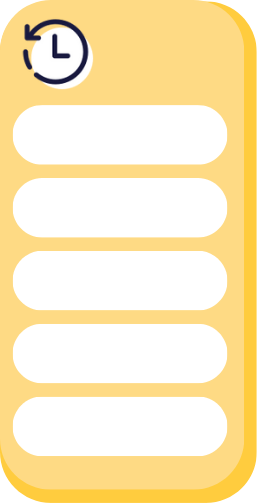
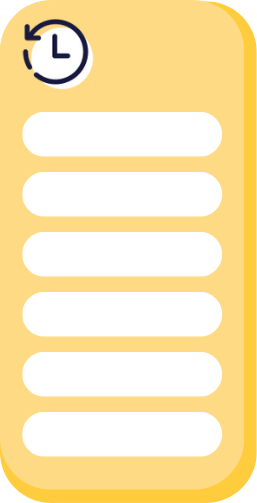
add ScrollPane (exampleLable)

Changed region(s): [[0.0311, 0.2087, 0.9027, 0.9245]]

diff --git a/GUI/src/controller/DictionaryController.java b/GUI/src/controller/DictionaryController.java
@@ -15,9 +15,11 @@ import javafx.fxml.Initializable;
 import javafx.scene.control.Button;
 import javafx.scene.control.Label;
 import javafx.scene.control.ListCell;
+import javafx.scene.control.ScrollPane;
 import javafx.scene.control.TextArea;
 import javafx.scene.control.TextField;
 import javafx.scene.image.ImageView;
+import javafx.scene.layout.AnchorPane;
 
 public class DictionaryController implements Initializable{
     
@@ -45,6 +47,9 @@ public class DictionaryController implements Initializable{
     @FXML
     private Label typeLable;
 
+    @FXML
+    private ScrollPane examplePane;
+
     public void displayContent(Word word) {
         contentLable.setText(word.getContent());
     }
@@ -54,15 +59,25 @@ public class DictionaryController implements Initializable{
     }
 
     public void displayPronunciation(Word word) {
+        pronunciationLable.setWrapText(true);
         pronunciationLable.setText(word.getPronunciation());
     }
 
     public void displayMeaning(Word word) {
+        meaningLable.setMaxHeight(500);
+        meaningLable.setWrapText(true);
+        System.out.println("before: " + meaningLable.getHeight());
         meaningLable.setText(word.getMeaning());
+        System.out.println("after: " + meaningLable.getHeight());
     }
 
     public void displayExample(Word word) {
-        pronunciationLable.setText(word.getExample());
+        AnchorPane.setTopAnchor(examplePane, meaningLable.getLayoutY() + meaningLable.getHeight());
+        System.out.println(meaningLable.getLayoutY() + " - " +  meaningLable.getHeight());
+        System.out.println(examplePane.getLayoutY());
+        exampleLable.setText(word.getExample());
+        exampleLable.setWrapText(true);
+        exampleLable.setMaxHeight(10000);
     }
 
     /**
